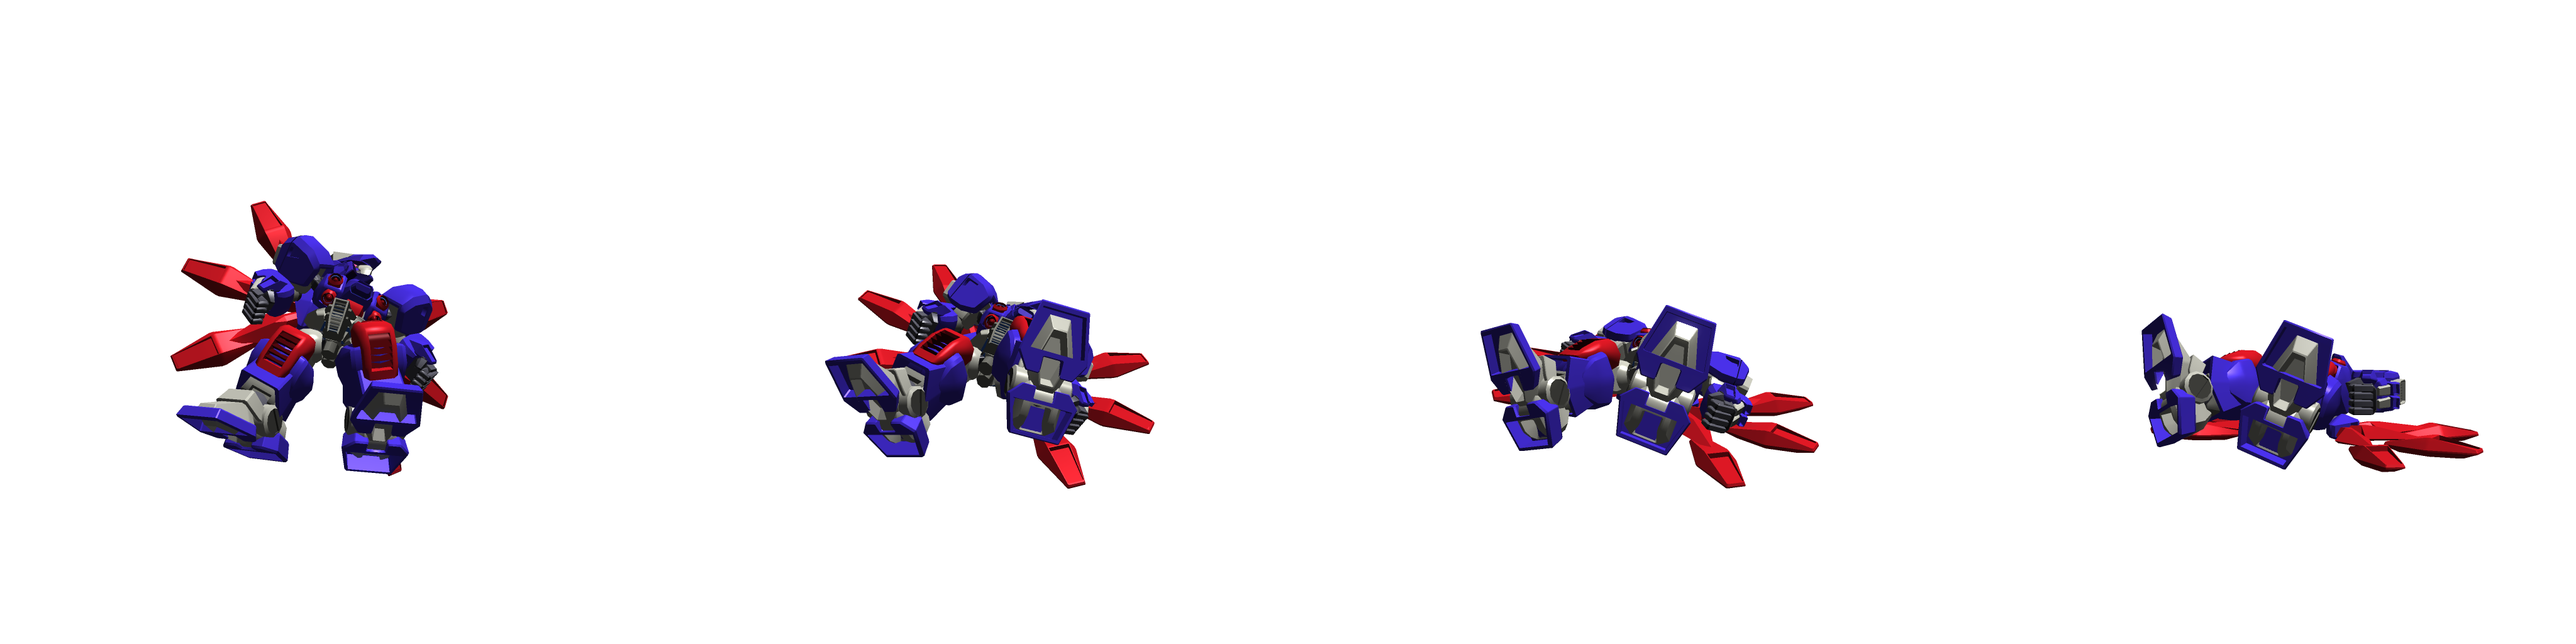
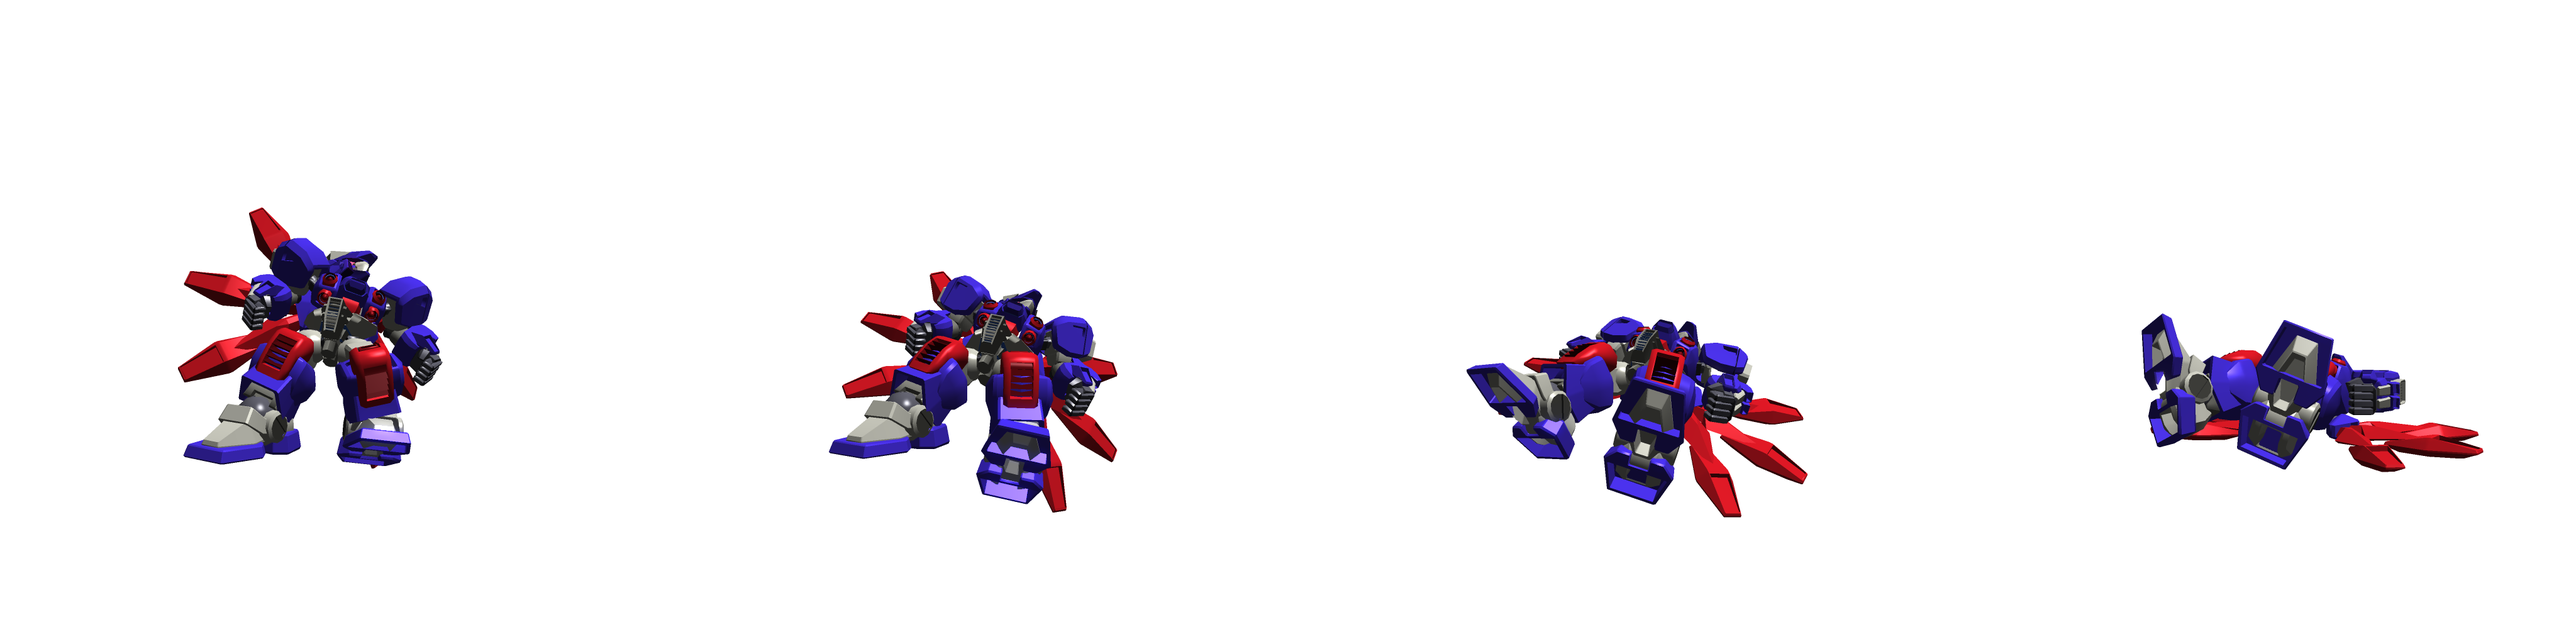
ダウンポーズを調整した

Changed region(s): [[0.3125, 0.4062, 0.4688, 0.7812], [0.0625, 0.3125, 0.1875, 0.75], [0.5625, 0.4688, 0.7188, 0.8125]]

diff --git a/src/js/game-object/armdozer/wing-dozer/animation/down.js b/src/js/game-object/armdozer/wing-dozer/animation/down.js
@@ -1,0 +1,33 @@
+// @flow
+
+import TWEEN from "@tweenjs/tween.js";
+import type {WingDozerModel} from "../model/wing-dozer-model";
+import {Animate} from "../../../../animation/animate";
+import {process} from '../../../../animation/process';
+import {tween} from "../../../../animation/tween";
+import {delay} from "../../../../animation/delay";
+import {all} from "../../../../animation/all";
+
+/**
+ * ダウン
+ * @param model モデル
+ * @return アニメーション
+ */
+export function down(model: WingDozerModel): Animate {
+  return all(
+    process(() => {
+      model.animation.type = 'KNOCK_BACK';
+      model.animation.frame = 1;
+    })
+      .chain(delay(500))
+      .chain(process(() => {
+        model.animation.type = 'DOWN';
+        model.animation.frame = 0;
+      }))
+      .chain(tween(model.animation, t => t.to({frame: 1}, 350))),
+
+    tween(model.position,
+      t => t.to({x: '+70'}, 1000).easing(TWEEN.Easing.Quadratic.Out)
+    )
+  );
+}

diff --git a/src/js/game-object/armdozer/wing-dozer/wing-dozer.js b/src/js/game-object/armdozer/wing-dozer/wing-dozer.js
@@ -19,6 +19,7 @@ import {dash} from "./animation/dash";
 import {dashToStand} from "./animation/dush-to-stand";
 import {knockBack} from "./animation/knock-back";
 import {knockBackToStand} from "./animation/knock-back-to-stand";
+import {down} from "./animation/down";
 
 /**
  * ウィングドーザ
@@ -148,7 +149,7 @@ export class WingDozer implements ArmDozerSprite {
    * @return アニメーション
    */
   down(): Animate {
-    return empty();
+    return down(this._model);
   }
 
   /**

diff --git a/stories/wing-dozer.stories.js b/stories/wing-dozer.stories.js
@@ -55,3 +55,15 @@ export const turnStart = () => {
   stub.start();
   return stub.domElement();
 }
+
+export const down = () => {
+  const stub = new TDGameObjectStub((resources, listener) => {
+    const sprite = PlayerWingDozer(resources, listener);
+    const animation = sprite.down()
+      .chain(delay(2000));
+    animation.loop();
+    return [sprite.getObject3D()];
+  });
+  stub.start();
+  return stub.domElement();
+}
